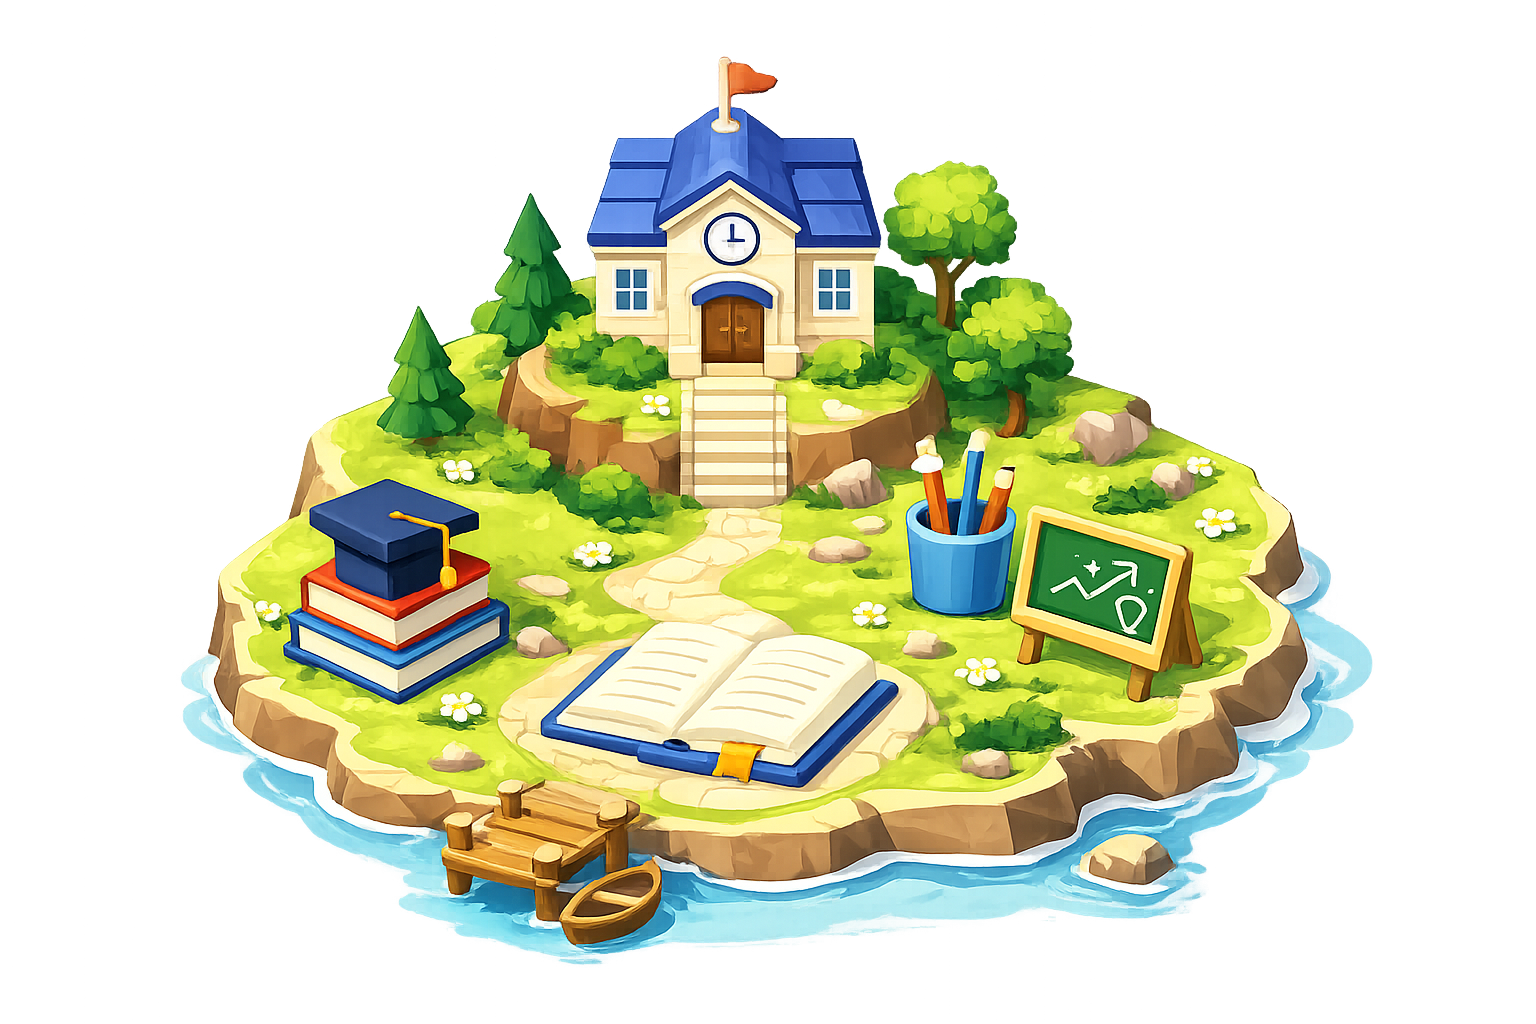
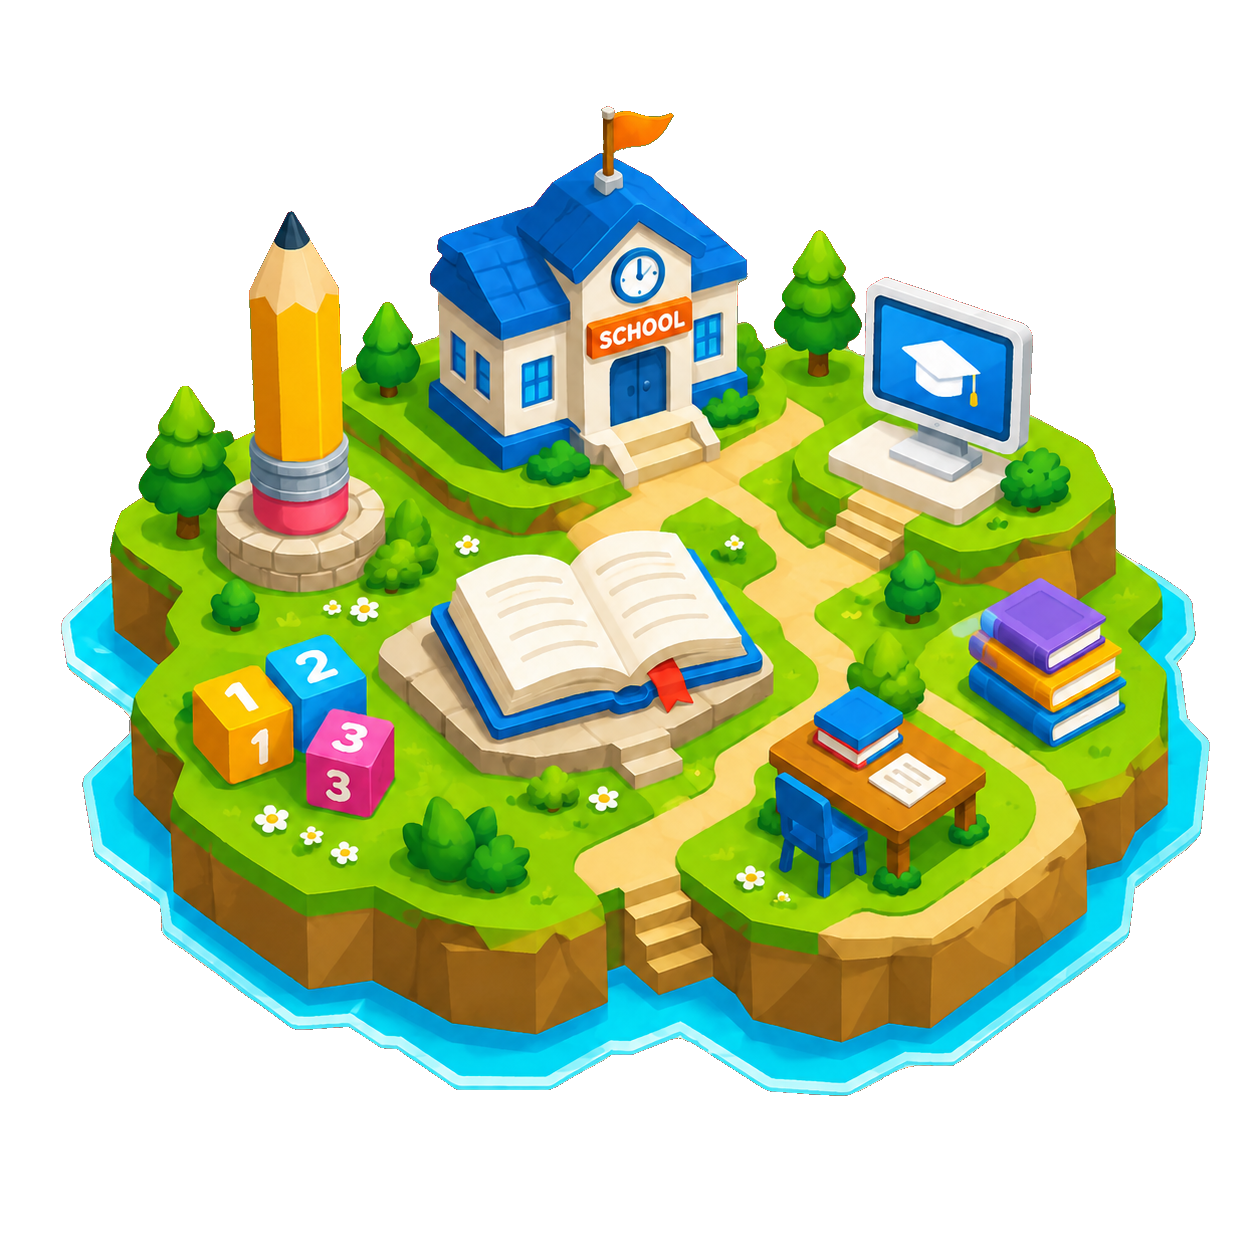
feat: first map

diff --git a/lib/presentation/screens/learning_island/learning_island_screen.dart b/lib/presentation/screens/learning_island/learning_island_screen.dart
@@ -35,6 +35,8 @@ class _LearningIslandScreenState extends State<LearningIslandScreen>
   late final AnimationController _frameCtrl;
   int _currentFrame = 0;
 
+  late final AnimationController _bobCtrl;
+
   @override
   void initState() {
     super.initState();
@@ -47,13 +49,30 @@ class _LearningIslandScreenState extends State<LearningIslandScreen>
       final frame = (_frameCtrl.value * 5).floor().clamp(0, 4);
       if (frame != _currentFrame) setState(() => _currentFrame = frame);
     });
+
+    _bobCtrl = AnimationController(
+      vsync: this,
+      duration: const Duration(milliseconds: 3500),
+    )..repeat();
   }
 
   @override
   void dispose() {
     _frameCtrl.dispose();
+    _bobCtrl.dispose();
     _unlockCtrl?.dispose();
     super.dispose();
+  }
+
+  Widget _bob({required Widget child, double phase = 0, double amplitude = 6}) {
+    return AnimatedBuilder(
+      animation: _bobCtrl,
+      builder: (_, c) {
+        final dy = math.sin((_bobCtrl.value * 2 * math.pi) + phase) * amplitude;
+        return Transform.translate(offset: Offset(0, dy), child: c);
+      },
+      child: child,
+    );
   }
 
   int get _currentIdx =>
@@ -70,10 +89,11 @@ class _LearningIslandScreenState extends State<LearningIslandScreen>
       duration: const Duration(milliseconds: 500),
     );
     _unlockingIdx = tappedIdx;
+    // Flip current → complete ngay với hiệu ứng nảy.
+    _checkpoints[curIdx].state = CheckpointState.complete;
 
     _unlockCtrl!.forward().then((_) {
       setState(() {
-        _checkpoints[curIdx].state = CheckpointState.complete;
         _checkpoints[tappedIdx].state = CheckpointState.current;
         _unlockingIdx = null;
         _currentFrame = 0;
@@ -85,14 +105,14 @@ class _LearningIslandScreenState extends State<LearningIslandScreen>
 
   // Offsets from island center — calibrated from screenshot pixel positions
   static const List<Offset> _cpOffsets = [
-    Offset( -15,  140), // Lesson 1 — dock bottom-center
+    Offset(  15,   78), // Lesson 1 — đầu path trên đảo (sát dock)
     Offset( -29,   69), // Lesson 2 — flag/pole area
     Offset( -76,   11), // Lesson 3 — near magnifying glass
     Offset( -37,  -22), // Lesson 4 — center below school
-    Offset( -37,  -58), // Lesson 5 — school entrance
+    Offset(  45,  -15), // Lesson 5 — trên đoạn path phải trường học
     Offset(  41,  -94), // Lesson 6 — right (computer desk)
     Offset( -18, -140), // Lesson 7 — upper-center (big tree)
-    Offset( -32, -179), // Lesson 8 — upper (books / graduation cap)
+    Offset(  70, -120), // Lesson 8 — sát chân stairs 123, trên path
   ];
 
   @override
@@ -133,11 +153,14 @@ class _LearningIslandScreenState extends State<LearningIslandScreen>
               Positioned(
                 left: cx - 190,
                 top: cy - 230,
-                child: Image.asset(
-                  'assets/images/learningIslandScreen/learning_main_island.png',
-                  width: 380,
-                  errorBuilder: (_, __, ___) =>
-                      const SizedBox(width: 380, height: 300),
+                child: _bob(
+                  amplitude: 5,
+                  child: Image.asset(
+                    'assets/images/learningIslandScreen/learning_main_island.png',
+                    width: 380,
+                    errorBuilder: (_, __, ___) =>
+                        const SizedBox(width: 380, height: 300),
+                  ),
                 ),
               ),
 
@@ -155,14 +178,17 @@ class _LearningIslandScreenState extends State<LearningIslandScreen>
               for (var i = 0; i < _checkpoints.length; i++)
                 Positioned(
                   left: cpPositions[i].dx - _CheckpointContent.kSize / 2,
-                  top: cpPositions[i].dy - _CheckpointContent.kSize / 2,
-                  child: GestureDetector(
-                    onTap: () => _onCheckpointTap(i),
-                    child: _CheckpointContent(
-                      model: _checkpoints[i],
-                      currentFrame: _currentFrame,
-                      isUnlocking: _unlockingIdx == i,
-                      unlockCtrl: _unlockingIdx == i ? _unlockCtrl : null,
+                  top: cpPositions[i].dy - _CheckpointContent.kSize * 1.1,
+                  child: _bob(
+                    amplitude: 5,
+                    child: GestureDetector(
+                      onTap: () => _onCheckpointTap(i),
+                      child: _CheckpointContent(
+                        model: _checkpoints[i],
+                        currentFrame: _currentFrame,
+                        isUnlocking: _unlockingIdx == i,
+                        unlockCtrl: _unlockingIdx == i ? _unlockCtrl : null,
+                      ),
                     ),
                   ),
                 ),
@@ -171,46 +197,66 @@ class _LearningIslandScreenState extends State<LearningIslandScreen>
               Positioned(
                 left: w * 0.02,
                 top: h * 0.10,
-                child: Image.asset(
-                  'assets/images/learningIslandScreen/decor_learning_island1.png',
-                  width: 90,
-                  errorBuilder: (_, __, ___) => const SizedBox.shrink(),
+                child: _bob(
+                  phase: 1.1,
+                  amplitude: 7,
+                  child: Image.asset(
+                    'assets/images/learningIslandScreen/decor_learning_island1.png',
+                    width: 90,
+                    errorBuilder: (_, __, ___) => const SizedBox.shrink(),
+                  ),
                 ),
               ),
               Positioned(
                 right: w * 0.02,
                 top: h * 0.06,
-                child: Image.asset(
-                  'assets/images/learningIslandScreen/decor_learning_island2.png',
-                  width: 100,
-                  errorBuilder: (_, __, ___) => const SizedBox.shrink(),
+                child: _bob(
+                  phase: 2.4,
+                  amplitude: 7,
+                  child: Image.asset(
+                    'assets/images/learningIslandScreen/decor_learning_island2.png',
+                    width: 100,
+                    errorBuilder: (_, __, ___) => const SizedBox.shrink(),
+                  ),
                 ),
               ),
               Positioned(
                 left: w * 0.03,
                 bottom: h * 0.18,
-                child: Image.asset(
-                  'assets/images/learningIslandScreen/decor_learning_island3.png',
-                  width: 80,
-                  errorBuilder: (_, __, ___) => const SizedBox.shrink(),
+                child: _bob(
+                  phase: 3.0,
+                  amplitude: 6,
+                  child: Image.asset(
+                    'assets/images/learningIslandScreen/decor_learning_island3.png',
+                    width: 80,
+                    errorBuilder: (_, __, ___) => const SizedBox.shrink(),
+                  ),
                 ),
               ),
               Positioned(
                 right: w * 0.03,
                 bottom: h * 0.16,
-                child: Image.asset(
-                  'assets/images/learningIslandScreen/decor_learning_island4.png',
-                  width: 85,
-                  errorBuilder: (_, __, ___) => const SizedBox.shrink(),
+                child: _bob(
+                  phase: 0.6,
+                  amplitude: 6,
+                  child: Image.asset(
+                    'assets/images/learningIslandScreen/decor_learning_island4.png',
+                    width: 85,
+                    errorBuilder: (_, __, ___) => const SizedBox.shrink(),
+                  ),
                 ),
               ),
               Positioned(
                 right: w * 0.06,
                 top: h * 0.26,
-                child: Image.asset(
-                  'assets/images/learningIslandScreen/island_globe.png',
-                  width: 70,
-                  errorBuilder: (_, __, ___) => const SizedBox.shrink(),
+                child: _bob(
+                  phase: 1.8,
+                  amplitude: 8,
+                  child: Image.asset(
+                    'assets/images/learningIslandScreen/island_globe.png',
+                    width: 70,
+                    errorBuilder: (_, __, ___) => const SizedBox.shrink(),
+                  ),
                 ),
               ),
 
@@ -331,7 +377,7 @@ class _CheckpointContent extends StatelessWidget {
     required this.unlockCtrl,
   });
 
-  static const double kSize = 46.0;
+  static const double kSize = 36.0;
 
   final CheckpointModel model;
   final int currentFrame;
@@ -352,7 +398,7 @@ class _CheckpointContent extends StatelessWidget {
   Widget _baseImg() => Image.asset(
         _asset,
         width: kSize,
-        height: kSize,
+        fit: BoxFit.contain,
         errorBuilder: (_, __, ___) => Container(
           width: kSize,
           height: kSize,
@@ -389,8 +435,16 @@ class _CheckpointContent extends StatelessWidget {
 
     return Column(
       mainAxisSize: MainAxisSize.min,
+      crossAxisAlignment: CrossAxisAlignment.center,
       children: [
-        img,
+        SizedBox(
+          height: kSize * 1.6,
+          width: kSize,
+          child: Align(
+            alignment: Alignment.bottomCenter,
+            child: img,
+          ),
+        ),
         const SizedBox(height: 2),
         Container(
           padding: const EdgeInsets.symmetric(horizontal: 5, vertical: 2),